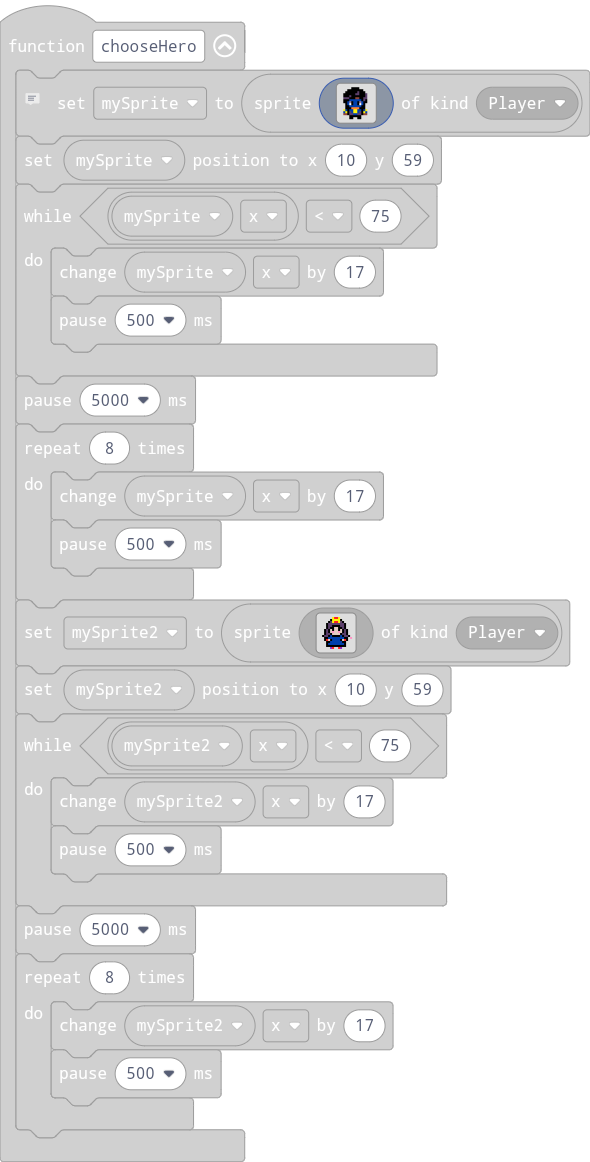
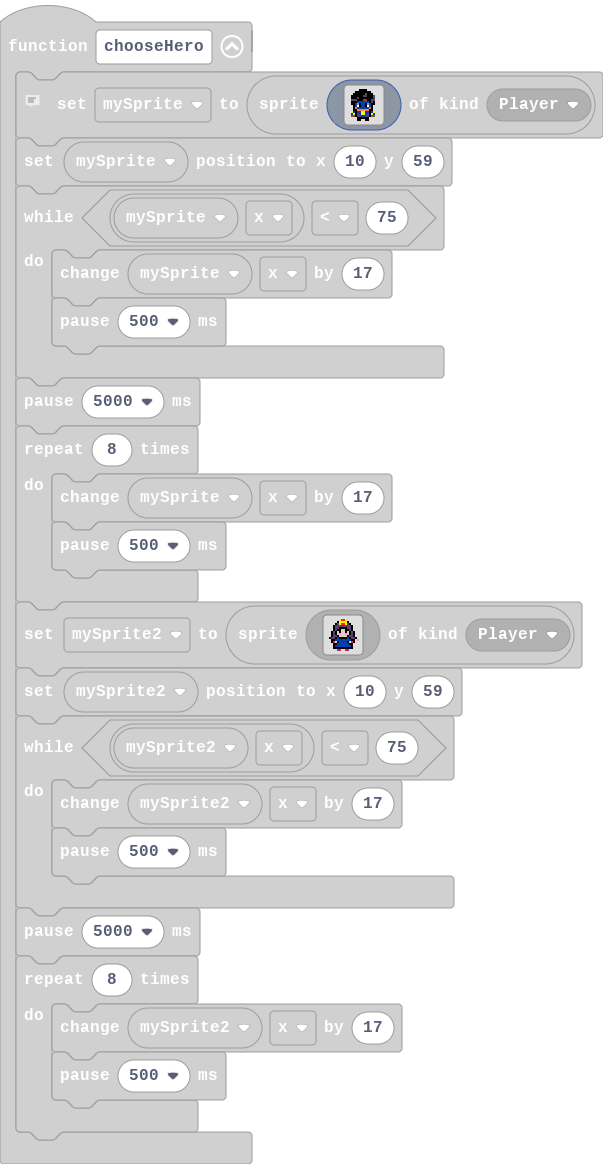
Update main.blocks, main.ts

diff --git a/main.ts b/main.ts
@@ -10,8 +10,8 @@ function chooseHero () {
         f f f 8 8 8 8 8 8 f c f . 
         f f 8 b f 8 8 f b 8 f f . 
         . f 8 1 f 8 8 f 1 8 f . . 
-        . f f 8 8 8 8 8 8 f f . . 
-        . f f f 4 4 4 4 f f f . . 
+        . f 4 8 8 8 8 8 8 4 f . . 
+        . f f 4 4 4 4 4 4 f f . . 
         5 8 f 8 8 5 5 8 8 f 8 5 . 
         8 5 f c 8 5 5 8 c f 5 8 . 
         e e f c c 8 8 c c f e e . 
